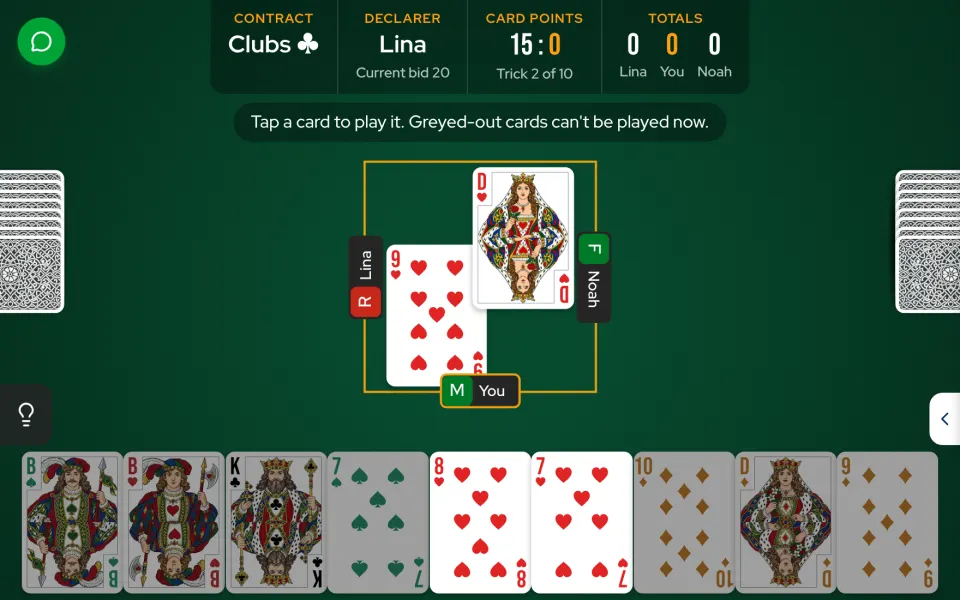
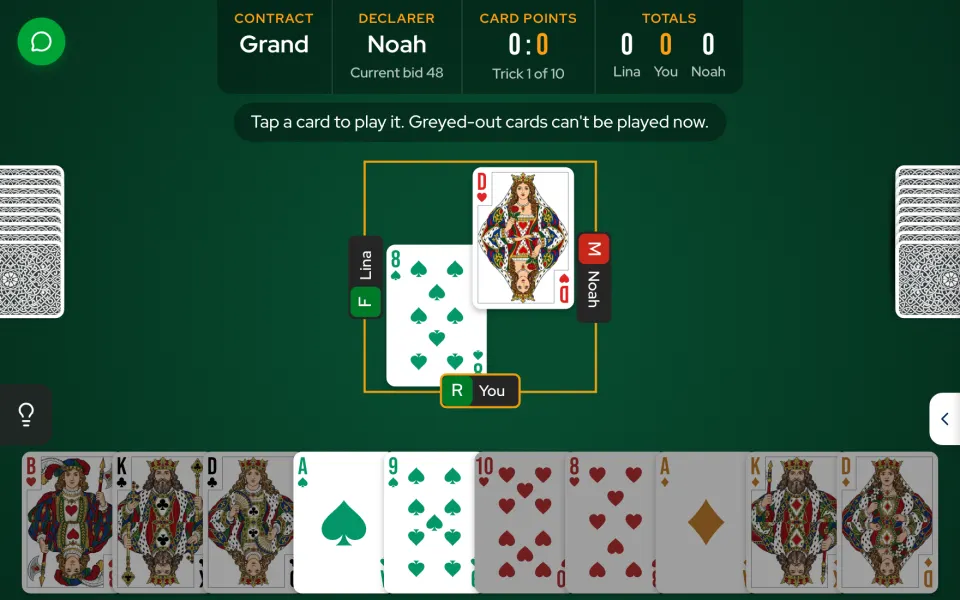
SKATGO-89 关闭：rework 记录，在同步后的代码上重新截了牌桌图

diff --git a/.intentfold/tickets/SKATGO-89/rework.md b/.intentfold/tickets/SKATGO-89/rework.md
@@ -1,0 +1,46 @@
+# SKATGO-89 rework
+
+首次交付是 `a68aeee`（handoff.md 冻结在那里）。之后有三轮 rework，每轮一个提交，提交信息就是人的原话。
+
+## 游戏页面的截图
+
+人的原话：「这个页面最好附带一个游戏页面的截图，不要占空间太大，主要是让读者产生直觉」。
+
+- **截图怎么来的**：新增 `.intentfold/tickets/SKATGO-89/table-shot.mjs`，在浏览器里打一局真实的自由对局，叫牌一律 pass，出第一张能出的牌，在第一或第二墩、轮到玩家、中间有牌时截图，再用 `cwebp` 转成 960px 宽的 WebP：`app/public/quick-start-table-{de,en}.webp`，德语页用德语界面的图，英语页用英语界面的图。
+- **页面**：图放在引导语下面、第 1 条上面。宽度最多和首页那张图一样（`dims.heroArt`，480px），没有新增设计值；手机上占满阅读栏。图下面一行说明（同时作替代文字）：「So sieht der Tisch bei SkatGo aus: unten deine Karten, in der Mitte der Stich, links und rechts Lina und Noah.」
+- **没写图片尺寸**：图片的固有宽高（960×600）没写进代码，因为设计值检查不允许写死数字。代价是图片加载时下面的内容会略微下移。
+- **charter**：
+  - ui.md：这一页的版面加上了这张图；
+  - engineering.md：「Generated, never hand-edited」里登记了这两张图和生成命令。
+- **重新检查**：`tmp/picture.mjs`，桌面和手机、德语和英语，图片语言正确、能加载、宽度不超过 480、位置在引导语和第 1 条之间；`check:seo --built` 通过（资源从 46 个变成 48 个）。
+
+## 首页的 5 分钟入口不够明显
+
+人的原话：「主要你学习卡上那个5分钟，看起来不够明显」。
+
+- 首页「Neu beim Skat?」那块的入口，原来是按钮旁边一行带下划线的小字，现在改成和「Lernen starten」一样的白色按钮，两个按钮并排。仍然只对还没学过课的人显示。
+- ui.md 跟着改。
+- 重新检查：桌面和手机、德语和英语，按钮和「Lernen starten」样式相同，点进去就是这一页。
+
+## 名字改成「速成」
+
+人先问「你这个skat in 5min会被理解成是快速打一盘吗？」，agent 建议改成「Regeln in 5 Minuten」。人又说：「rules会被以为是总结吗，其实就是5分钟速成的意思」。
+
+- 首页按钮改为「5-Minuten-Crashkurs」，英语页是「5-minute crash course」；
+- 规则页那行链接改为「Neu beim Skat? Der 5-Minuten-Crashkurs」，英语页是「New to Skat? The 5-minute crash course」；
+- 页面标题「Skat in 5 Minuten」和课程页的卡片不变；
+- ui.md 跟着改；
+- 重新检查：同上，桌面和手机、德语和英语。
+
+## 关闭时一并做的
+
+- **同步 main**：rebase 到最新的 main 时多了 SKATGO-88（自由对局 6 副一轮），两边都改了 charter 和文案文件，Git 自动合并、没有冲突。核对过：两边的文案键都在（各 530 个），charter 里两张工单的内容都在。
+- **重新截图**：SKATGO-88 改了自由对局的牌桌，所以在 rebase 后的代码上重新跑了 `table-shot.mjs`。这个窗口大小下牌桌的样子没变，新截的图换掉了旧图。
+- **product.md**：交付时请人确认在课程那段补的那一句。人没有反对，予以保留。
+
+## 和冻结的 handoff 相比
+
+- 页面多了一张牌桌截图；
+- 首页的入口从一行小字变成按钮「5-Minuten-Crashkurs」；
+- 规则页的链接文字改成「速成」的说法；
+- 其余不变：十二条原样、牌面配图、地址、三个入口的位置；只有 web 有改动，环境变量没有变化。
